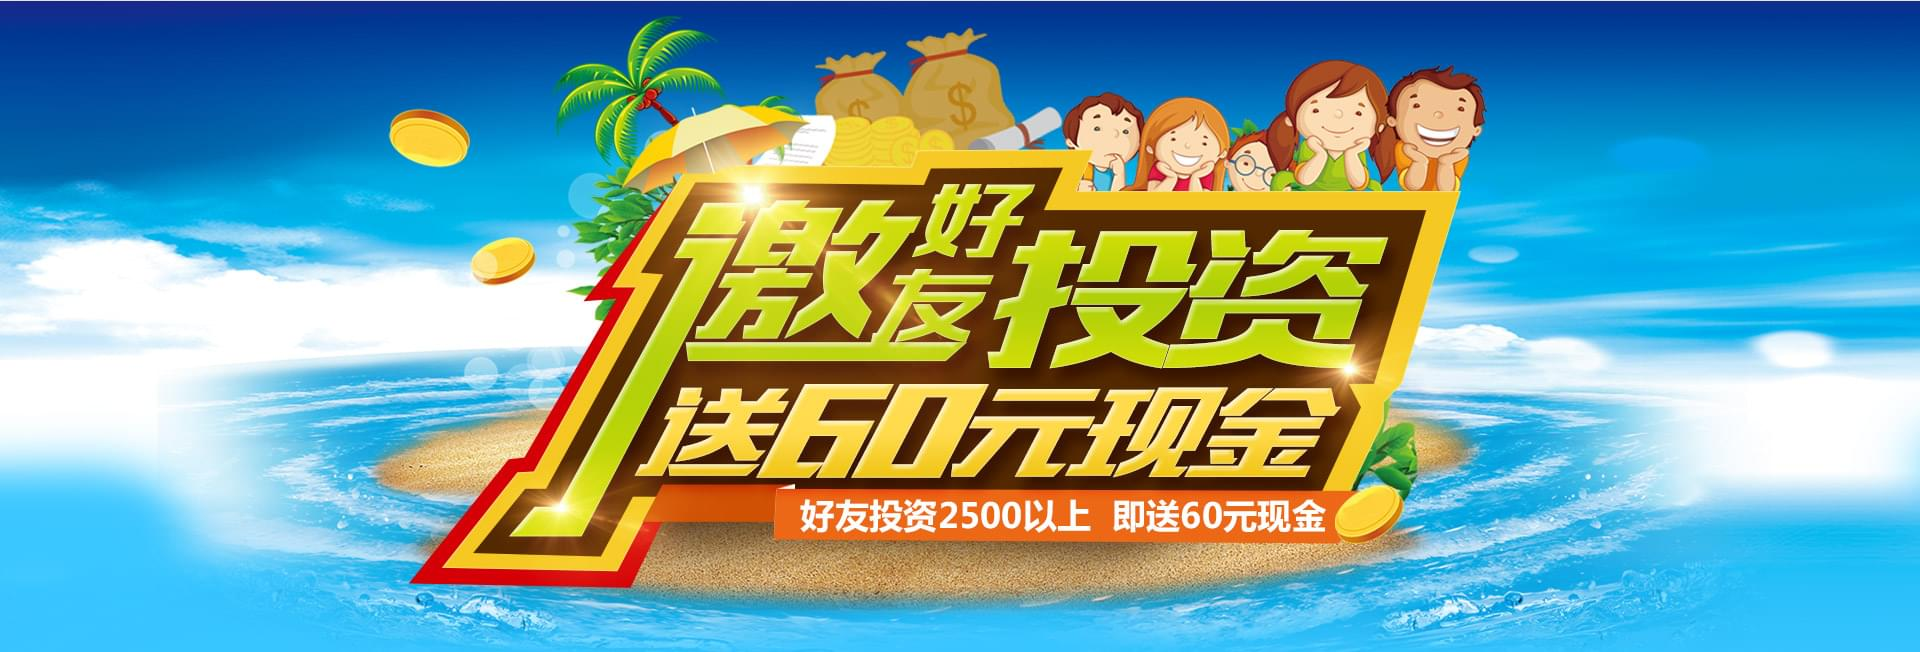
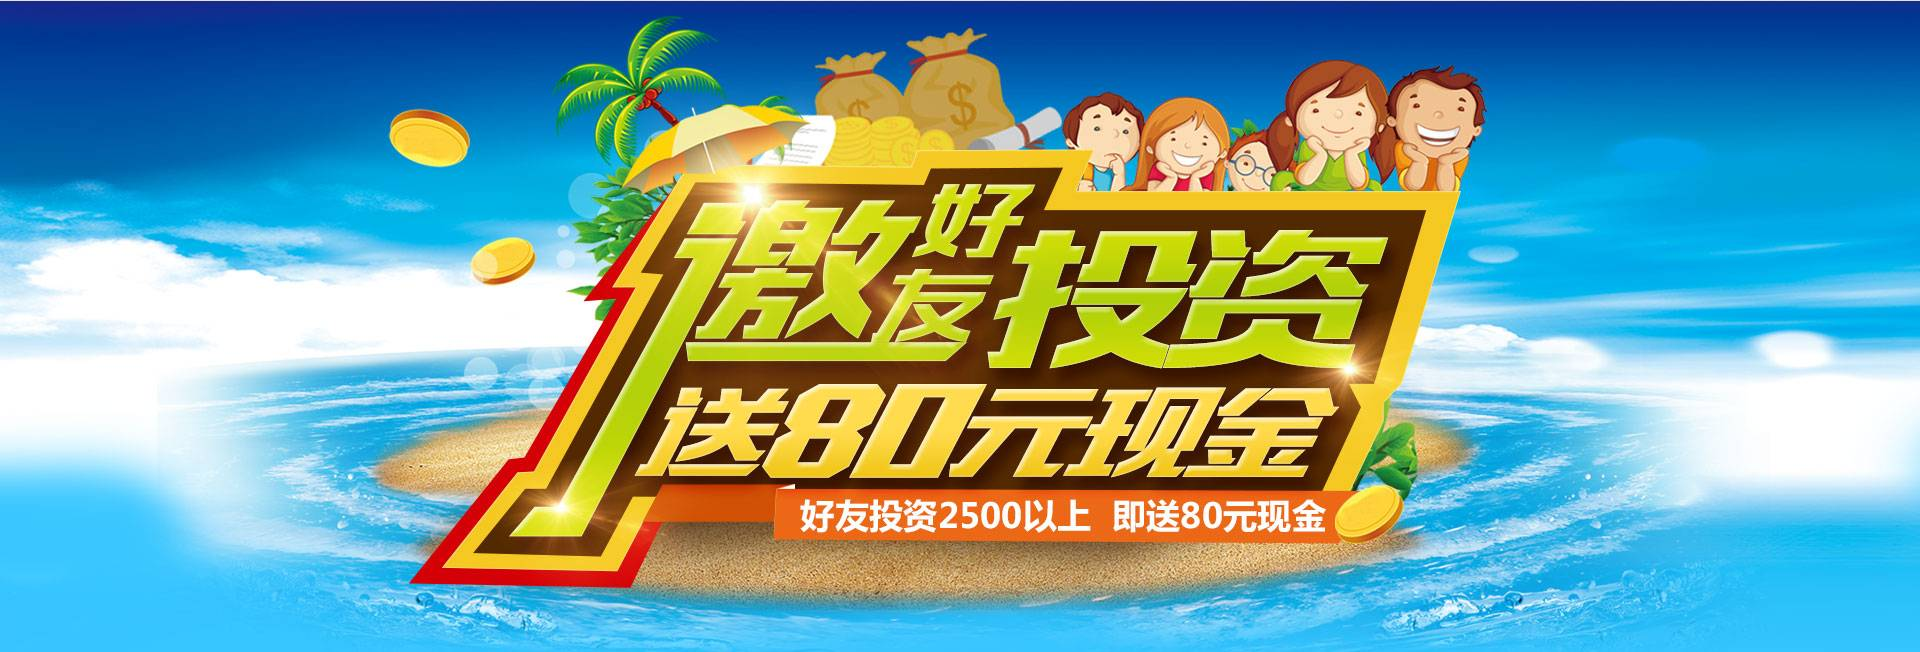
feat(邀请活动) 60改80，图片压缩

diff --git a/app/views/activity/newInvite-landing.html b/app/views/activity/newInvite-landing.html
@@ -15,7 +15,7 @@
         </div>
         <!-- 内容 -->
         <div class="content">
-          <p class="text ft-18 margin-b-0 ft-grey1">活动期间内邀请好友注册投资，该好友在活动期间累计投资宏金保项目（期限≥30天）达2500元（含）以上且投资两次（不包含体验标）以上，邀请人即可获得邀请奖金60元，奖金总额上不封顶！</p>
+          <p class="text ft-18 margin-b-0 ft-grey1">活动期间内邀请好友注册投资，该好友在活动期间累计投资宏金保项目（期限≥30天）达2500元（含）以上且投资两次（不包含体验标）以上，邀请人即可获得邀请奖金80元，奖金总额上不封顶，同时被邀请人也可获得最高45元投资返现。</p>
         </div>
       </div>
        <!-- 举个栗子 -->
@@ -26,7 +26,7 @@
         </div>
         <!-- 内容 -->
         <div class="content">
-          <p class="text ft-18 margin-b-0 ft-grey1">李雷邀请好友韩梅梅注册投资，韩梅梅在活动期间内分别投资宏金保项目2000元，500元，则李雷可获得邀请奖金60元。</p>
+          <p class="text ft-18 margin-b-0 ft-grey1">李雷邀请好友韩梅梅注册投资，韩梅梅在活动期间内分两天投资宏金保项目2000元，500元，则李雷可获得邀请奖金80元，韩梅梅可分别获得35元、10元投资返现。</p>
           <ul class="process margin-b-0">
             <li>
               <img src="/images/activity/newIvt01.png" alt="">
@@ -44,7 +44,7 @@
             </li>
             <li class="margin-t--8">
               <img src="/images/activity/newIvt03.png" alt="">
-              <p class="ft-16 ft-grey1 margin-b-0 margin-t-20">您将获得60元奖金</p>
+              <p class="ft-16 ft-grey1 margin-b-0 margin-t-20">您将获得80元奖金</p>
             </li>
           </ul>
           <div class="newIvt-btn margin-auto text-center ft-36 ftw-b ft-white cursor-pt" ng-click="toEarnMoney()">

diff --git a/app/views/user-center/invite-rebate.html b/app/views/user-center/invite-rebate.html
@@ -58,13 +58,13 @@
         </div>
       </div>
       <div class="col-md-12 invite-main ft-grey666 margin-b-10">
-        <p class="intro ft-14 margin-b-0">活动期间内邀请好友注册投资，该好友在活动期间累计投资两次（期限≥30天），累计投资金额达2500元（含）以上，邀请人即可获得邀请奖金60元！多邀多得，上不封顶！</p>
+        <p class="intro ft-14 margin-b-0">活动期间内邀请好友注册投资，该好友在活动期间累计投资两次（期限≥30天），累计投资金额达2500元（含）以上，邀请人即可获得邀请奖金80元！多邀多得，上不封顶！</p>
         <div class="text-center margin-t-20 margin-b-20">
           <img src="/images/user-center/group.png" alt="">
           <div class="row ft-12 line-h24 row-img margin-auto text-left">
             <div class="col-md-5">分享专属二维码/复制链接给好友</div>
             <div class="col-md-4 margin-l--26">好友通过链接注册并购买</div>
-            <div class="col-md-3 margin-l-20">您将获得60元奖金</div>
+            <div class="col-md-3 margin-l-20">您将获得80元奖金</div>
           </div>
         </div>
         <div class="text-left ft-14 rules line-h24">

diff --git a/app/scripts/controller/main/slider-ctrl.js b/app/scripts/controller/main/slider-ctrl.js
@@ -14,7 +14,7 @@ angular.module('hongcaiApp')
       mimeType: 'image/png',
       src: 'images/banner-new/banner09.jpg',
       href: '/#!/activity/invite-activity',
-      name: '邀请好友投资送60元现金'
+      name: '邀请好友投资送80元现金'
     }*/,{
       mimeType: 'image/png',
       src: 'images/banner-new/banner07.jpg',
